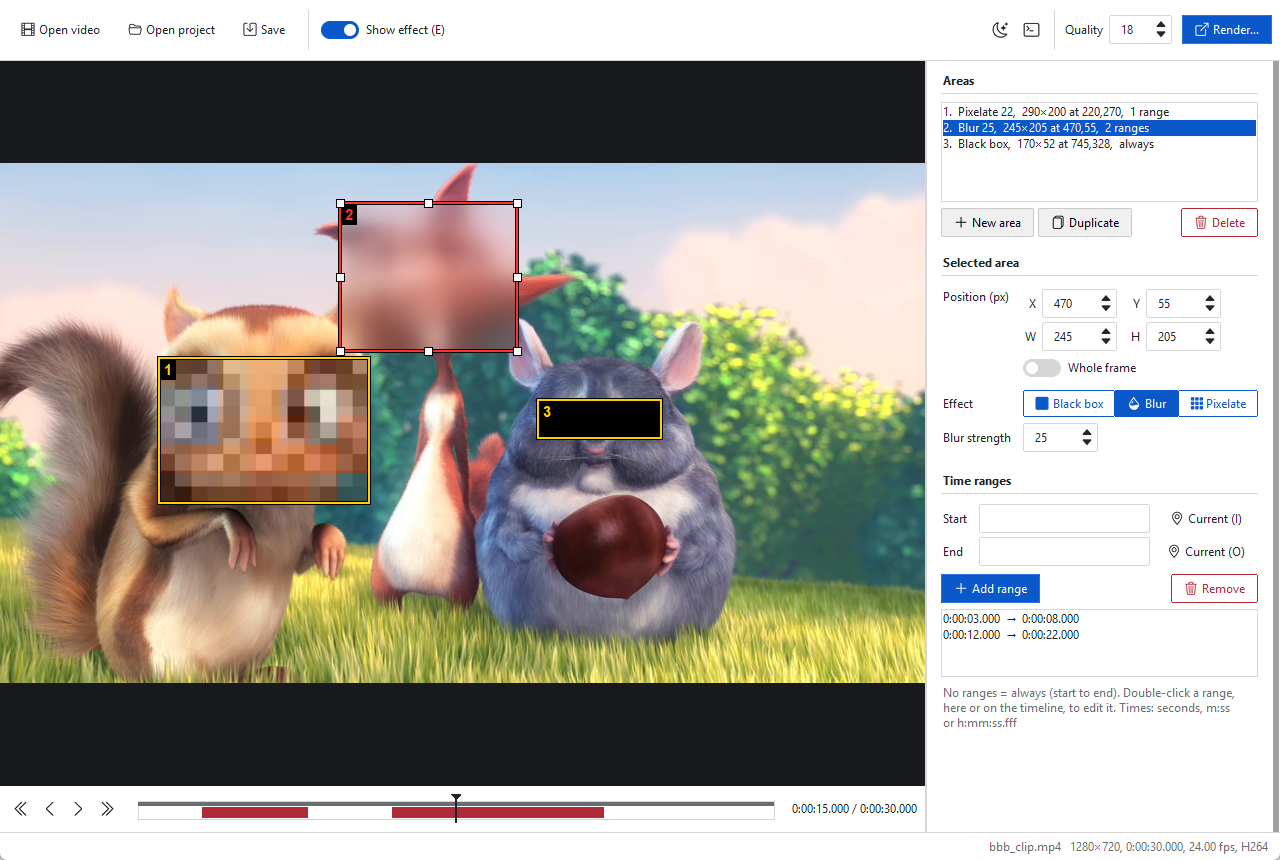
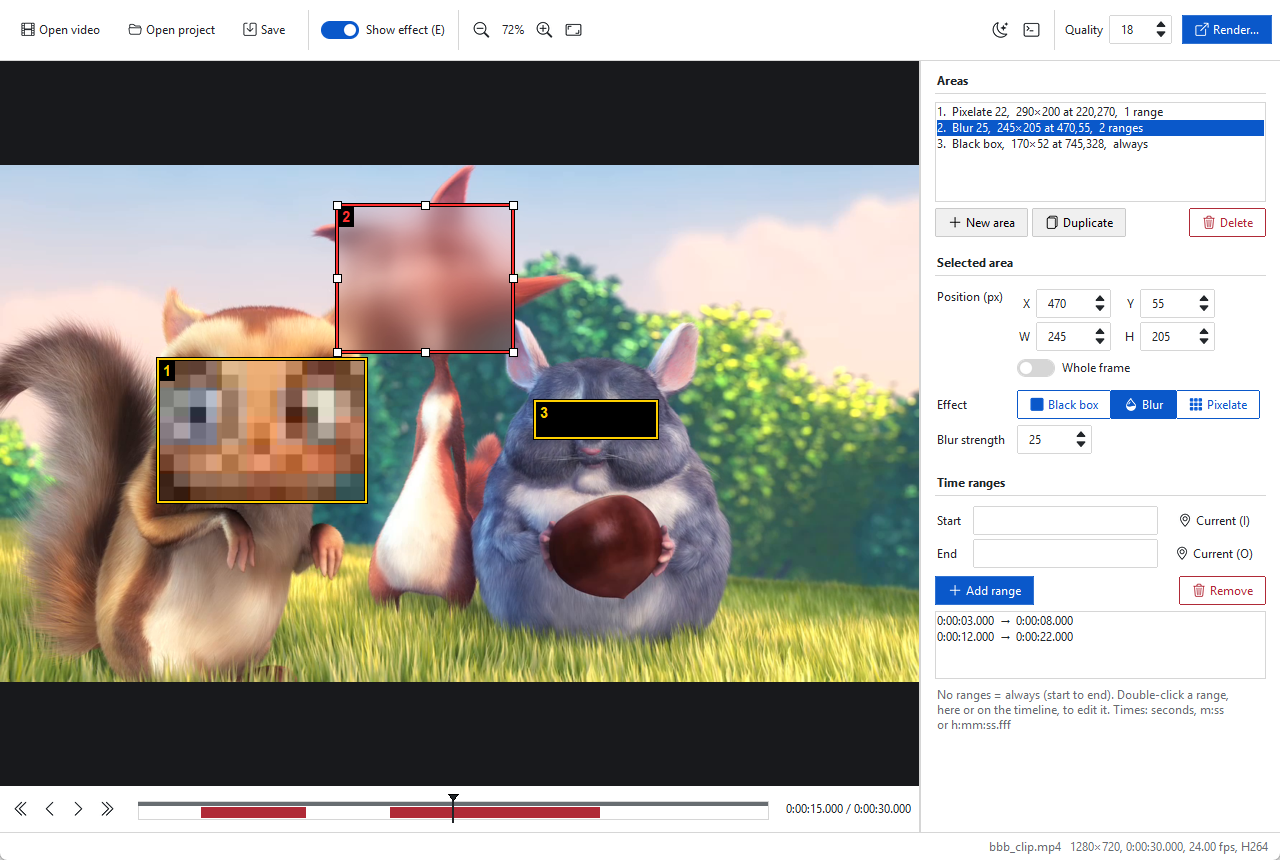
0.3.0: zoom in and out of the preview, and drag it
The mouse wheel zooms around the pointer, + and - around the centre
(also the toolbar's magnifiers and the View menu), 0 fits the frame to
the window and 1 shows it at actual size. Dragging with the right or
middle button moves the zoomed frame, since the left button draws and
moves areas; the frame never leaves an empty band at its edges.

Only the part of the frame in view is scaled, and the effect preview is
kept between redraws, so zooming and panning cost no more than the fit.
From 200 % up the video's pixels show as sharp squares, to place an edge
on the exact pixel. The screenshot shows the new toolbar.

diff --git a/blurbox.py b/blurbox.py
@@ -16,6 +16,10 @@ select and move it, drag an edge or corner of the selected area to resize
 it; "New area" adds another. Each area has its own effect and time ranges
 (none = always).
 
+Zoom: the mouse wheel zooms in and out around the pointer, + and - around
+the centre; 0 fits the frame to the window, 1 shows it at actual size.
+Drag with the right or middle button to move around the zoomed frame.
+
 Seeking: the timeline (click or drag), the step buttons (hold to repeat) or
 the keyboard: Left/Right 1 s, Shift+Left/Right one frame.
 
@@ -41,6 +45,7 @@ file first, then by its absolute path.
 import copy
 import functools
 import json
+import math
 import os
 import queue
 import re
@@ -72,6 +77,9 @@ REPEAT_DELAY_MS = 400  # hold a step button this long before it repeats
 REPEAT_MS = 50  # then step at most this often (and never before the frame shows)
 GRAB_PX = 7  # how close (screen pixels) to an edge of the selected area resizes it
 MIN_AREA_PX = 2  # smallest width/height (video pixels) a resize can leave
+ZOOM_STEP = 1.25  # zoom factor per wheel notch or +/- press
+MAX_ZOOM_PX = 32  # zoom in up to this many screen pixels per video pixel
+SHARP_ZOOM = 2  # zoomed in this far, show the video's pixels as sharp squares
 THEMES = {False: "bootstrap-light", True: "bootstrap-dark"}  # by "dark theme" on/off
 VIDEO_BG = "#18191c"  # around the frame, dark in either theme like a video player's
 SIDEBAR_WRAP = 300  # wrap width (px) of the notes in the sidebar
@@ -82,6 +90,8 @@ SHORTCUTS = [
     ("Enter", "Add the range (Update range while editing)"),
     ("Esc", "Cancel the range edit"),
     ("E", "Show effect on/off"),
+    ("+ / -", "Zoom in / out (also the mouse wheel)"),
+    ("0 / 1", "Fit the frame to the window / actual size"),
     ("Ctrl+O", "Open project"),
     ("Ctrl+S / Ctrl+Shift+S", "Save project / Save project as"),
 ]
@@ -947,6 +957,10 @@ class App:
         self.frame: Image.Image | None = None
         self.photo = None
         self.scale, self.offx, self.offy = 1.0, 0, 0
+        self.zoom: float | None = None  # screen px per video px; None = fit the canvas
+        self.center: tuple[float, float] | None = None  # video point at the canvas centre
+        self.pan: tuple[int, int] | None = None  # pointer during a right/middle drag
+        self.preview = None  # (frame, areas, image): the last effect preview, reused
         self.gen = 0  # number of the latest frame request
         self.shown_gen = 0  # request whose frame is on screen
         self.shown_time: float | None = None
@@ -965,6 +979,7 @@ class App:
 
         self.pos = tk.DoubleVar(value=0)
         self.time_text = tk.StringVar(value="")
+        self.zoom_text = tk.StringVar(value="")
         self.rect_vars = {k: tk.StringVar(value="0") for k in "xywh"}
         self.mode = tk.StringVar(value="black")
         self.strength = tk.StringVar(value="20")
@@ -1012,6 +1027,17 @@ class App:
         tb.Separator(top, orient="vertical").pack(side="left", fill="y", padx=8, pady=4)
         tb.Checkbutton(top, text="Show effect (E)", variable=self.show_effect,
                        bootstyle="round-toggle").pack(side="left", padx=4)
+        tb.Separator(top, orient="vertical").pack(side="left", fill="y", padx=8, pady=4)
+        for icon, command, tip in [
+                ("zoom-out", lambda: self.zoom_by(1 / ZOOM_STEP), "Zoom out (-, or the wheel)"),
+                (None, None, ("Zoom (100% = actual size): drag with the right or middle "
+                              "button to move around the zoomed frame")),
+                ("zoom-in", lambda: self.zoom_by(ZOOM_STEP), "Zoom in (+, or the wheel)"),
+                ("aspect-ratio", lambda: self.zoom_to(None), "Fit the frame to the window (0)")]:
+            w = (tb.Label(top, textvariable=self.zoom_text, width=5, anchor="center") if icon is None
+                 else tb.Button(top, icon=icon, icon_only=True, bootstyle="ghost", command=command))
+            w.pack(side="left")
+            tb.ToolTip(w, text=tip)
 
         self.render_btn = tb.Button(top, text="Render…", icon="box-arrow-up-right",
                                     bootstyle="primary", command=self.render)
@@ -1054,6 +1080,13 @@ class App:
         self.canvas.bind("<B1-Motion>", self._motion)
         self.canvas.bind("<ButtonRelease-1>", lambda e: setattr(self, "drag", None))
         self.canvas.bind("<Motion>", self._hover)
+        self.canvas.bind("<MouseWheel>", self._wheel)
+        for button in (4, 5):  # the wheel on X11 with Tk 8.6
+            self.canvas.bind(f"<ButtonPress-{button}>", self._wheel)
+        for button in (2, 3):  # left drag draws areas, so middle and right pan
+            self.canvas.bind(f"<ButtonPress-{button}>", self._pan_press)
+            self.canvas.bind(f"<B{button}-Motion>", self._pan_motion)
+            self.canvas.bind(f"<ButtonRelease-{button}>", self._pan_release)
 
         seek = tb.Frame(player, padding=(6, 6))
         seek.pack(fill="x")
@@ -1157,6 +1190,12 @@ class App:
                             ("e", lambda: self.show_effect.set(not self.show_effect.get()))]:
             r.bind(f"<Key-{key}>", lambda e, a=action: self._key(e, a))
             r.bind(f"<Key-{key.upper()}>", lambda e, a=action: self._key(e, a))
+        for keys, action in [(("plus", "equal", "KP_Add"), lambda: self.zoom_by(ZOOM_STEP)),
+                             (("minus", "KP_Subtract"), lambda: self.zoom_by(1 / ZOOM_STEP)),
+                             (("0",), lambda: self.zoom_to(None)),
+                             (("1",), lambda: self.zoom_to(1.0))]:
+            for key in keys:
+                r.bind(f"<Key-{key}>", lambda e, a=action: self._key(e, a))
         r.bind("<Return>", lambda e: self._key(e, self.add_range))
         r.bind("<Escape>", lambda e: self.cancel_edit())
         self._mode_changed()
@@ -1183,6 +1222,12 @@ class App:
         view = tb.Menu(menu, tearoff=False)
         view.add_checkbutton(label="Show effect", accelerator="E", variable=self.show_effect)
         view.add_checkbutton(label="Dark theme", variable=self.dark)
+        view.add_separator()
+        view.add_command(label="Zoom in", accelerator="+", command=lambda: self.zoom_by(ZOOM_STEP))
+        view.add_command(label="Zoom out", accelerator="-",
+                         command=lambda: self.zoom_by(1 / ZOOM_STEP))
+        view.add_command(label="Fit to window", accelerator="0", command=lambda: self.zoom_to(None))
+        view.add_command(label="Actual size", accelerator="1", command=lambda: self.zoom_to(1.0))
         menu.add_cascade(label="View", menu=view)
         tools = tb.Menu(menu, tearoff=False)
         tools.add_command(label="ffmpeg…", command=self.show_ffmpeg)
@@ -1278,6 +1323,8 @@ class App:
         self.video, self.info = Path(path), info
         self.project = None
         self.frame = None
+        self.preview = None
+        self.zoom, self.center = None, None
         self.shown_time = None
         self.cancel_edit()
         self.areas, self.cur = [], None
@@ -1485,23 +1532,66 @@ class App:
             return
         if self.frame is None:
             return
-        img = self.frame
-        if self.show_effect.get():
-            t = self.shown_time if self.shown_time is not None else self.pos.get()
-            try:
-                img = apply_effects(img, self._active_items(t))
-            except Exception as e:
-                self.status.set(f"Preview error: {e}")
-        cw, ch = self.canvas.winfo_width(), self.canvas.winfo_height()
-        iw, ih = img.size
-        s = min(cw / iw, ch / ih)
-        size = (max(1, int(iw * s)), max(1, int(ih * s)))
-        self.photo = ImageTk.PhotoImage(img.resize(size, Image.Resampling.BILINEAR))
-        self.scale = size[0] / iw
-        self.offx, self.offy = (cw - size[0]) // 2, (ch - size[1]) // 2
-        self.canvas.create_image(self.offx, self.offy, anchor="nw", image=self.photo, tags="img")
-        self.canvas.tag_lower("img")
+        img = self._preview_image()
+        self._layout()
+        self.zoom_text.set(f"{self.scale * 100:.0f}%")
+        # Scale only the part of the frame in view, so a deep zoom costs no
+        # more than the fit
+        s, (iw, ih) = self.scale, img.size
+        x0, y0 = max(0, round(self.offx)), max(0, round(self.offy))
+        x1 = min(self.canvas.winfo_width(), round(self.offx + iw * s))
+        y1 = min(self.canvas.winfo_height(), round(self.offy + ih * s))
+        if x1 > x0 and y1 > y0:
+            box = (max(0.0, (x0 - self.offx) / s), max(0.0, (y0 - self.offy) / s),
+                   min(iw, (x1 - self.offx) / s), min(ih, (y1 - self.offy) / s))
+            sharp = self.zoom is not None and s >= SHARP_ZOOM
+            resample = Image.Resampling.NEAREST if sharp else Image.Resampling.BILINEAR
+            self.photo = ImageTk.PhotoImage(img.resize((x1 - x0, y1 - y0), resample, box=box))
+            self.canvas.create_image(x0, y0, anchor="nw", image=self.photo, tags="img")
+            self.canvas.tag_lower("img")
         self.draw_areas()
+
+    def _preview_image(self) -> Image.Image:
+        """The frame, with the active areas' effects when they are shown. The
+        result is kept, so zooming and panning do not run the filters again."""
+        if not self.show_effect.get():
+            return self.frame
+        t = self.shown_time if self.shown_time is not None else self.pos.get()
+        items = self._active_items(t)
+        key = [(a.mode, a.strength, rect) for a, rect in items]
+        if self.preview and self.preview[0] is self.frame and self.preview[1] == key:
+            return self.preview[2]
+        try:
+            img = apply_effects(self.frame, items)
+        except Exception as e:
+            self.status.set(f"Preview error: {e}")
+            return self.frame
+        self.preview = (self.frame, key, img)
+        return img
+
+    def _fit_scale(self) -> float:
+        iw, ih = self.frame.size
+        return min(self.canvas.winfo_width() / iw, self.canvas.winfo_height() / ih)
+
+    def _layout(self):
+        """Set the frame's scale and offset on the canvas from the zoom and
+        the view centre. Along each axis the frame is centred while it is
+        smaller than the canvas, and otherwise leaves no empty band."""
+        cw, ch = self.canvas.winfo_width(), self.canvas.winfo_height()
+        iw, ih = self.frame.size
+        fit = self._fit_scale()
+        s = fit if self.zoom is None else min(max(self.zoom, min(fit, 1.0)), max(fit, MAX_ZOOM_PX))
+        cx, cy = self.center or (iw / 2, ih / 2)
+
+        def offset(c, view, size):
+            if size * s <= view:
+                return (view - size * s) / 2
+            return min(0.0, max(view - size * s, view / 2 - c * s))
+
+        self.scale = s
+        self.offx, self.offy = offset(cx, cw, iw), offset(cy, ch, ih)
+        # Keep the centre as clamped, so a pan past an edge leaves nothing to undo
+        self.center = ((cw / 2 - self.offx) / s, (ch / 2 - self.offy) / s)
 
     def draw_areas(self):
         """Outlines: the selected area red, the others yellow; thin and marked
@@ -1540,6 +1630,66 @@ class App:
                                (c[2], c[3]), (mx, c[3]), (c[0], c[3]), (c[0], my)]:
                     self.canvas.create_rectangle(hx - 4, hy - 4, hx + 4, hy + 4, fill="white",
                                                  outline="black", tags="rect")
+
+    # Zoom and pan ---------------------------------------------------------
+
+    def zoom_to(self, scale: float | None, at: tuple[float, float] | None = None):
+        """Show the frame at `scale` screen pixels per video pixel, or fitting
+        the canvas (None), keeping the video point under canvas point `at`
+        (default: the centre) where it is. The zoom goes from the fit or the
+        actual size, whichever is smaller, up to MAX_ZOOM_PX."""
+        if self.frame is None:
+            return
+        self._layout()  # the current view, even if not redrawn yet
+        cw, ch = self.canvas.winfo_width(), self.canvas.winfo_height()
+        ax, ay = at or (cw / 2, ch / 2)
+        vx, vy = (ax - self.offx) / self.scale, (ay - self.offy) / self.scale
+        fit = self._fit_scale()
+        if scale is not None:
+            scale = min(max(scale, min(fit, 1.0)), max(fit, MAX_ZOOM_PX))
+            if math.isclose(scale, fit):
+                scale = None  # back at the fit, which follows the window's size
+        if self.zoom is None and scale is not None and scale > fit:
+            self.status.set("Zoomed in: drag with the right or middle button to move around, "
+                            "0 fits the frame again.")
+        self.zoom = scale
+        s = fit if scale is None else scale
+        self.center = (vx + (cw / 2 - ax) / s, vy + (ch / 2 - ay) / s)
+        self._layout()
+        self.schedule_redraw()
+
+    def zoom_by(self, factor: float, at: tuple[float, float] | None = None):
+        if self.frame is not None:
+            self._layout()
+            self.zoom_to(self.scale * factor, at)
+
+    def _wheel(self, e):
+        """The wheel zooms in (up) or out (down) around the pointer."""
+        if e.num in (4, 5):
+            notches = 1 if e.num == 4 else -1
+        else:  # 120 per notch; touchpads send fractions of it
+            notches = e.delta / 120
+        self.zoom_by(ZOOM_STEP ** notches, (e.x, e.y))
+
+    def _pan_press(self, e):
+        if self.frame is not None and not self.loading:
+            self.pan = (e.x, e.y)
+            self.canvas.config(cursor="fleur")
+
+    def _pan_motion(self, e):
+        """Drag the frame along with the pointer."""
+        if self.pan is None:
+            return
+        self._layout()
+        (px, py), (cx, cy) = self.pan, self.center
+        self.center = (cx - (e.x - px) / self.scale, cy - (e.y - py) / self.scale)
+        self.pan = (e.x, e.y)
+        self._layout()
+        self.schedule_redraw()
+
+    def _pan_release(self, e):
+        self.pan = None
+        self._hover(e)
 
     # Areas ----------------------------------------------------------------
 

diff --git a/tests/test_app.py b/tests/test_app.py
@@ -444,3 +444,67 @@ def test_render_refuses_undrawn_areas(app, dialogs):
     app.new_area()
     app.render()
     assert dialogs["errors"] == ["Area 1 has not been drawn: draw or delete it."]
+
+
+# Zoom and pan ---------------------------------------------------------------
+
+def under(app, x, y):
+    """The video point under canvas point x, y."""
+    return (x - app.offx) / app.scale, (y - app.offy) / app.scale
+
+
+def wheel(app, x, y, notches):
+    app.canvas.event_generate("<MouseWheel>", x=x, y=y, delta=120 * notches)
+    pump(app)
+
+
+def pan(app, button, start, end):
+    (a, b), (c, d) = start, end
+    app.canvas.event_generate(f"<ButtonPress-{button}>", x=a, y=b)
+    app.canvas.event_generate(f"<B{button}-Motion>", x=c, y=d)
+    app.canvas.event_generate(f"<ButtonRelease-{button}>", x=c, y=d)
+    pump(app)
+
+
+def test_zoom_around_the_pointer(app):
+    fit = app.scale
+    assert app.zoom is None and app.zoom_text.get() == f"{fit * 100:.0f}%"
+    x, y = to_canvas(app, 80, 60)
+    wheel(app, x, y, 2)
+    assert app.scale == pytest.approx(fit * bb.ZOOM_STEP ** 2)
+    assert under(app, x, y) == pytest.approx((80, 60), abs=0.5)  # stayed under the pointer
+    assert "right or middle button" in app.status.get()
+    # Only the part in view is scaled, not the whole enlarged frame
+    assert app.photo.width() <= app.canvas.winfo_width()
+    assert app.photo.height() <= app.canvas.winfo_height()
+    drag(app, (70, 50), (90, 70))  # areas are still drawn in video pixels
+    assert rect(app) == pytest.approx((70, 50, 20, 20), abs=1)
+    wheel(app, x, y, -20)  # the 320×240 video is smaller than the window: down to 100%
+    assert app.scale == 1.0
+    key(app, "Key-0")
+    assert app.zoom is None and app.scale == pytest.approx(fit)
+    key(app, "Key-1")
+    assert app.scale == 1.0
+    key(app, "Key-plus")
+    assert app.scale == pytest.approx(bb.ZOOM_STEP)
+    wheel(app, x, y, 40)
+    assert app.scale == bb.MAX_ZOOM_PX
+
+
+def test_pan_with_the_right_or_middle_button(app):
+    app.zoom_to(4.0)  # 1280×960 px: bigger than the canvas both ways
+    pump(app)
+    x, y = app.canvas.winfo_width() // 2, app.canvas.winfo_height() // 2
+    for button in (3, 2):
+        point = under(app, x, y)
+        pan(app, button, (x, y), (x + 40, y + 30))
+        assert under(app, x + 40, y + 30) == pytest.approx(point)  # the frame followed
+    assert app.areas == []  # panning draws nothing
+    pan(app, 3, (x, y), (x + 5000, y + 5000))  # far past the top-left corner: stops there
+    assert (app.offx, app.offy) == (0, 0)
+    pan(app, 3, (x, y), (x - 10, y - 10))  # and moves back at once
+    assert (app.offx, app.offy) == (-10, -10)
+    key(app, "Key-0")
+    pan(app, 3, (x, y), (x + 40, y + 30))  # the whole frame is in view: nothing to pan
+    centre = app.canvas.winfo_width() / 2, app.canvas.winfo_height() / 2
+    assert app.zoom is None and under(app, *centre) == pytest.approx((160, 120))

diff --git a/README.md b/README.md
@@ -75,7 +75,7 @@ shortcut stores absolute paths.
 
 - **Layout**: the frame and its timeline on the left, the areas and the
   selected one's settings in the sidebar on the right (drag the divider to
-  resize it), files, quality and Render in the toolbar, messages in the
+  resize it), files, zoom, quality and Render in the toolbar, messages in the
   status bar. The theme is light or dark as the system is; the moon
   button or View → Dark theme switches it. Help → Keyboard shortcuts lists
   the keys.
@@ -88,6 +88,12 @@ shortcut stores absolute paths.
 - **Whole frame**: tick it to make the selected area cover the entire
   picture (e.g. blur everything from 0:12 to 0:15); untick it to get its
   rectangle back.
+- **Zoom**: the mouse wheel zooms in and out around the pointer; + and −
+  (or the toolbar's magnifiers) zoom around the centre, 0 fits the frame to
+  the window and 1 shows it at actual size (100 %). Drag with the right or
+  middle mouse button to move around the zoomed frame. From 200 % up the
+  video's pixels show as sharp squares, so an edge can be placed on the
+  exact pixel.
 - **Seeking**: click or drag the timeline, use the step buttons (hold them
   to repeat), or the keys ←/→ (1 s) and Shift+←/→ (one frame).
 - **Time ranges**: I and O put the current time in Start and End, Enter adds
